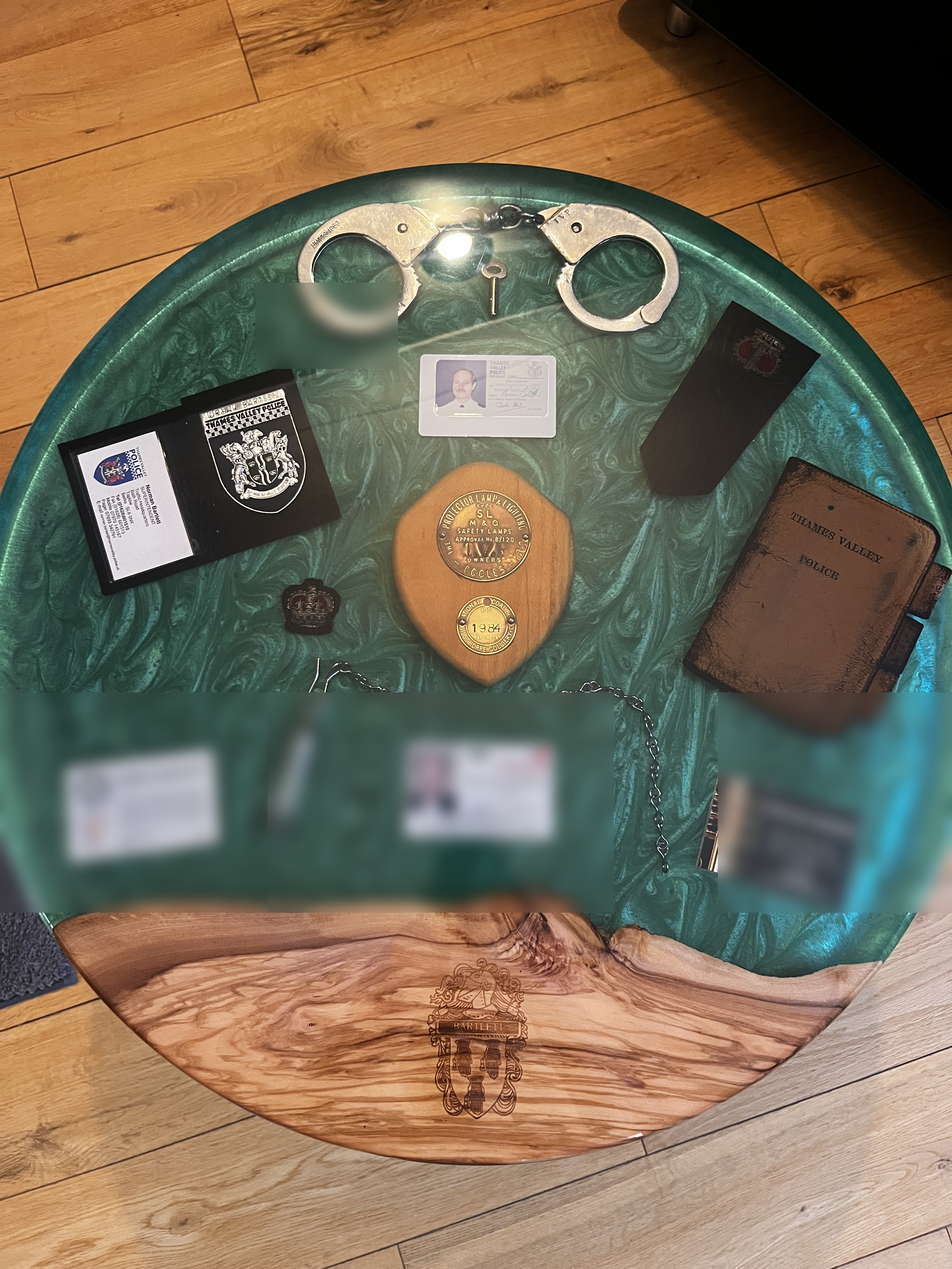
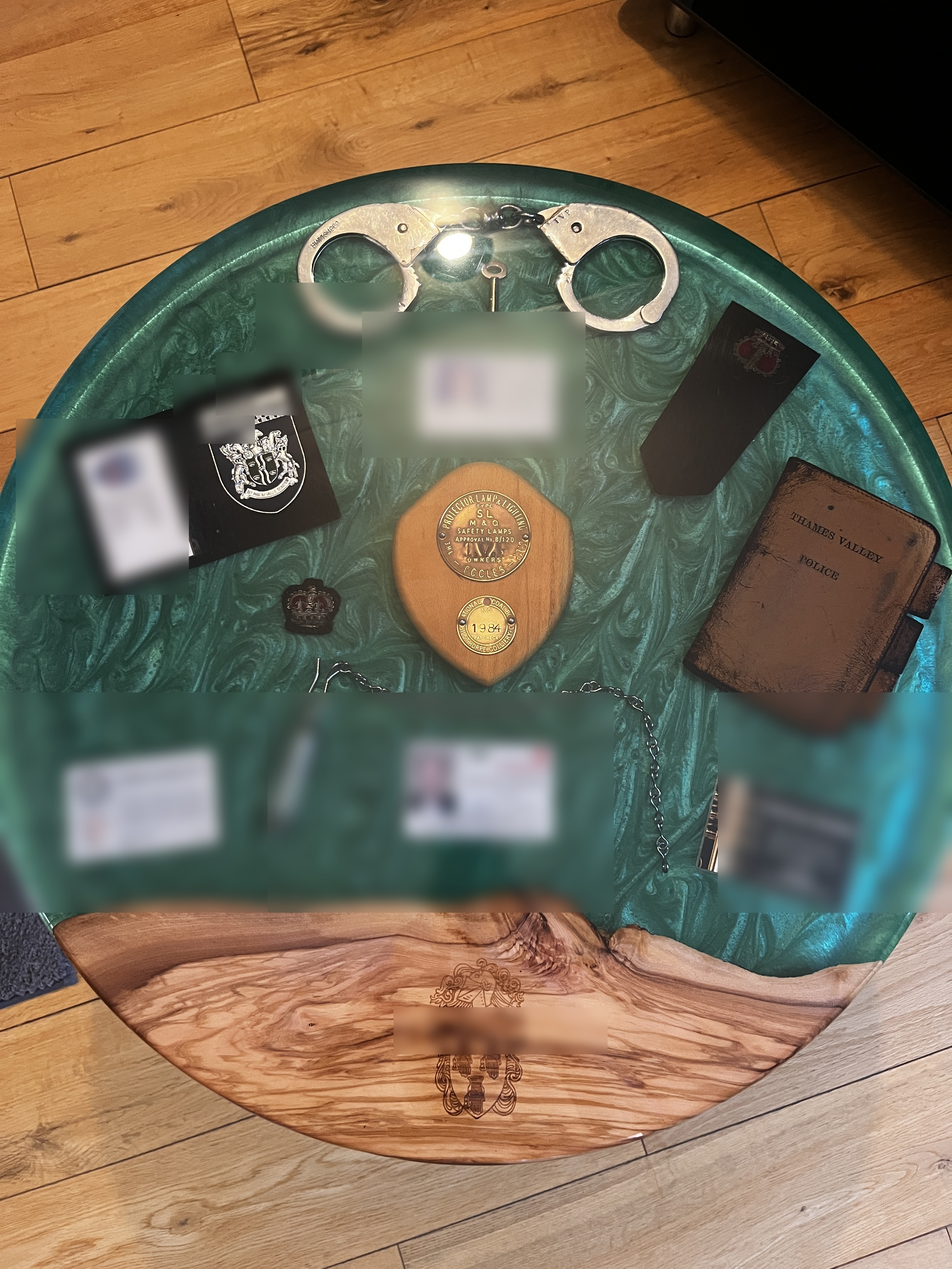
cb

Changed region(s): [[0.0, 0.2812, 0.3108, 0.4688], [0.4041, 0.25, 0.6217, 0.375], [0.4041, 0.7812, 0.6217, 0.8438]]

diff --git a/app/memories/botanical-keepsakes/page.js b/app/memories/botanical-keepsakes/page.js
@@ -67,11 +67,19 @@ export default function BotanicalKeepsakes() {
         position: 'relative',
         overflow: 'hidden',
       }}>
-        <div style={{
-          position: 'absolute',
-          inset: 0,
-          background: 'radial-gradient(ellipse at 70% 30%, rgba(160,120,80,0.12) 0%, transparent 60%)',
-        }} />
+        {/* Hero image */}
+        <img
+          src="/images/botanical-table-roses-1.jpg"
+          alt="Roses and botanicals preserved in crystal-clear resin — a botanical keepsake by Kent & Vale"
+          style={{
+            position: 'absolute',
+            inset: 0,
+            width: '100%',
+            height: '100%',
+            objectFit: 'cover',
+            opacity: 0.42,
+          }}
+        />
         <div style={{ position: 'absolute', inset: 0, background: 'linear-gradient(to top, #1e1a16 40%, transparent 100%)' }} />
 
         <div style={{ position: 'relative', zIndex: 1, maxWidth: '680px' }}>
